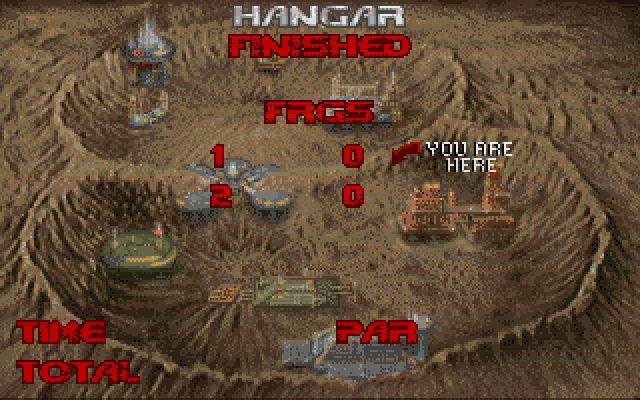
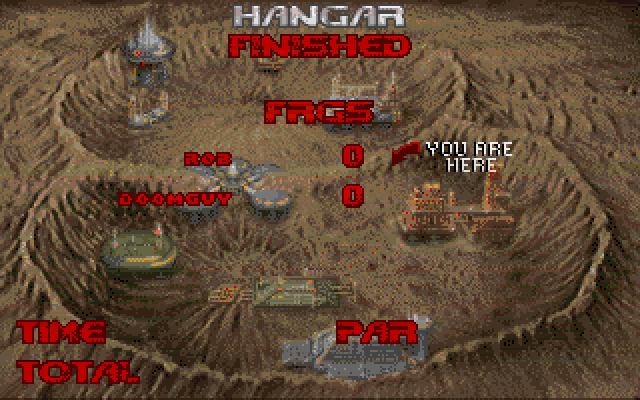
Player names on the deathmatch intermission: at the go each machine sends its YOUR NAME (or DOOMGUY) as NAME_TIC/NAME2_TIC records beside SETUP_TIC, D_NetDrawName draws the names in place of the player numbers (wi_stuff65.s); dm.sh notes that STAGGER is wall time and RUN emulated; README screenshot

Changed region(s): [[0.1875, 0.45, 0.375, 0.54], [0.2812, 0.36, 0.375, 0.42]]

diff --git a/README.md b/README.md
@@ -66,11 +66,12 @@ at the same tic whatever the other page said. Then it is Doom.
 
 The status bar shows frags in a deathmatch (the ARMS box becomes FRAG, as
 in Doom), and the intermission is the deathmatch one with a frag row per
-player.
+player, under the names the players typed (the names cross with the go,
+so each machine knows the other's).
 
 ![Status bars of both players, one frag, one at 20% health](docs/images/net/frags.png)
 
-![The deathmatch intermission](docs/images/net/intermission.png)
+![The deathmatch intermission, ROB against DOOMGUY](docs/images/net/intermission.png)
 
 At the end of each deathmatch level both machines post to the lobby's
 leaderboard: frags, a win for the player with more of them, and the level
